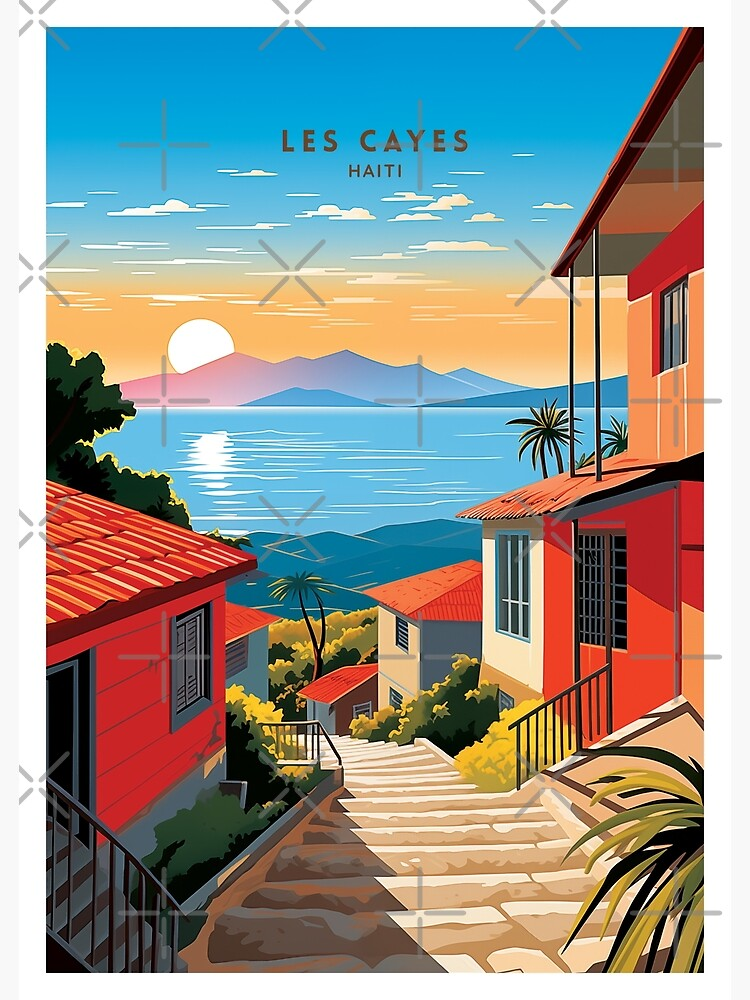
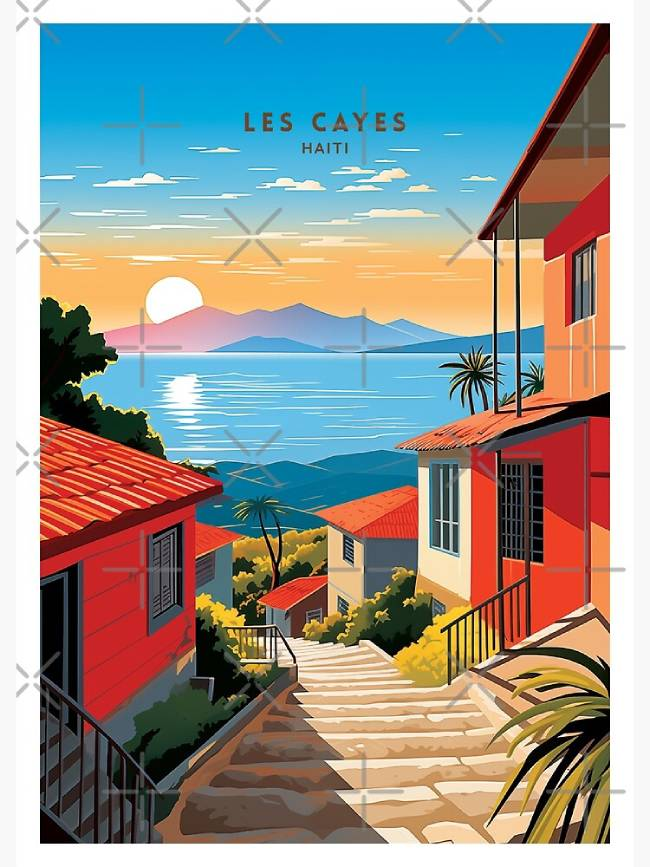
correction W02

diff --git a/index.html b/index.html
@@ -5,14 +5,14 @@
     <meta name="viewport" content="width=device-width, initial-scale=1.0">
     <meta name="description" content="This is a school project webpage created by Amazan Andersen. It includes information and examples about HTML headers and meta tags.">
     <meta name="author" content="Amazan Andersen">
-    <link rel="stylesheet" href="style.css">
+    <link rel="stylesheet" href="./styles/styles.css">
     <title> Amazan Andersen | WDD 130 </title>
 </head>
 <body>
     <header>
         <nav>
         <a href="#">Home</a>
-        <a href="week02/holygrail.html">Rafting Site</a>
+        <a href="wwr/">Rafting Site</a>
         </nav>
     </header>
     <main>
@@ -26,7 +26,7 @@
     </main>
     <aside>
         <h2> Los Cayos </h2>
-        <img src="images/lesCayes2.jpg" alt="Los Cayos, Haiti">
+        <img src="images/lescayes2.jpg" alt="Los Cayos, Haiti">
         <p>
             Los Cayos is a beautiful coastal city in Haiti known for its stunning beaches and vibrant culture. 
             It is a popular destination for tourists looking to experience the natural beauty and rich history of Haiti.
